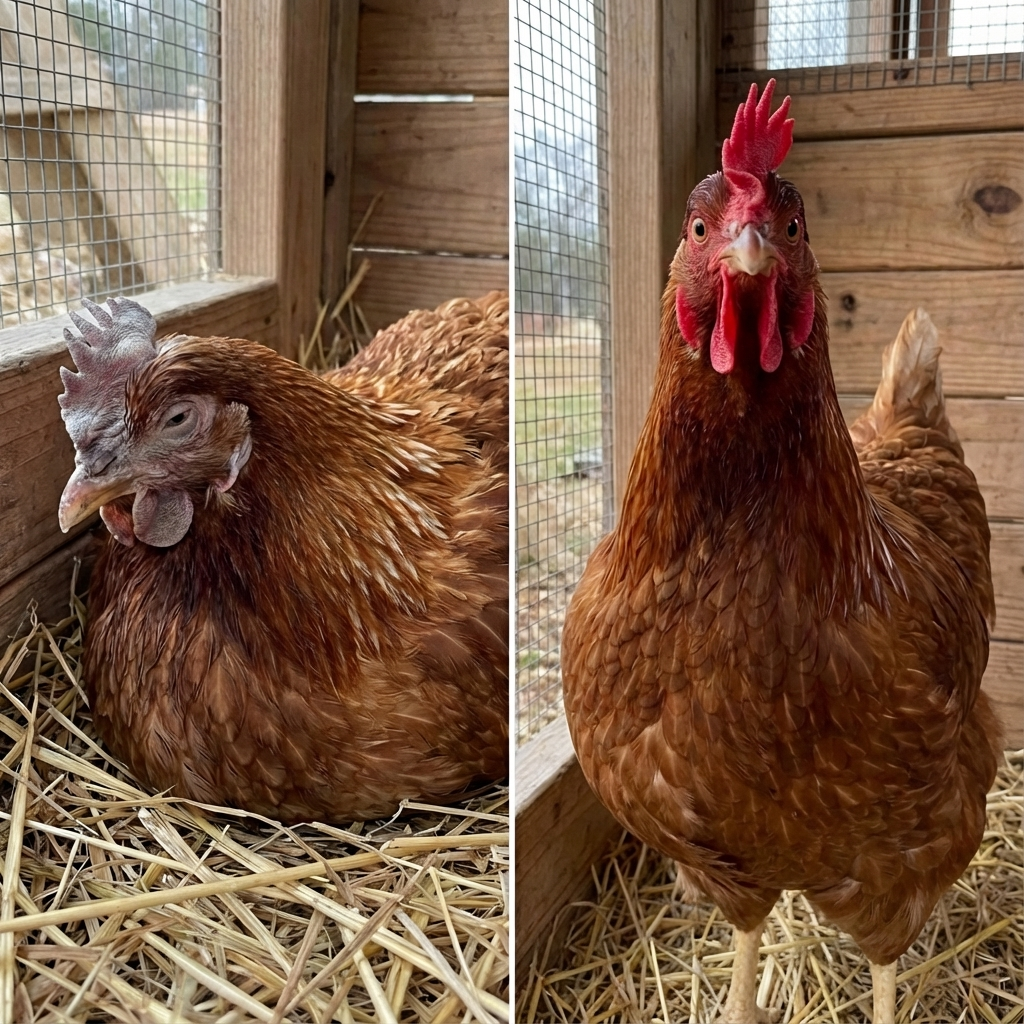
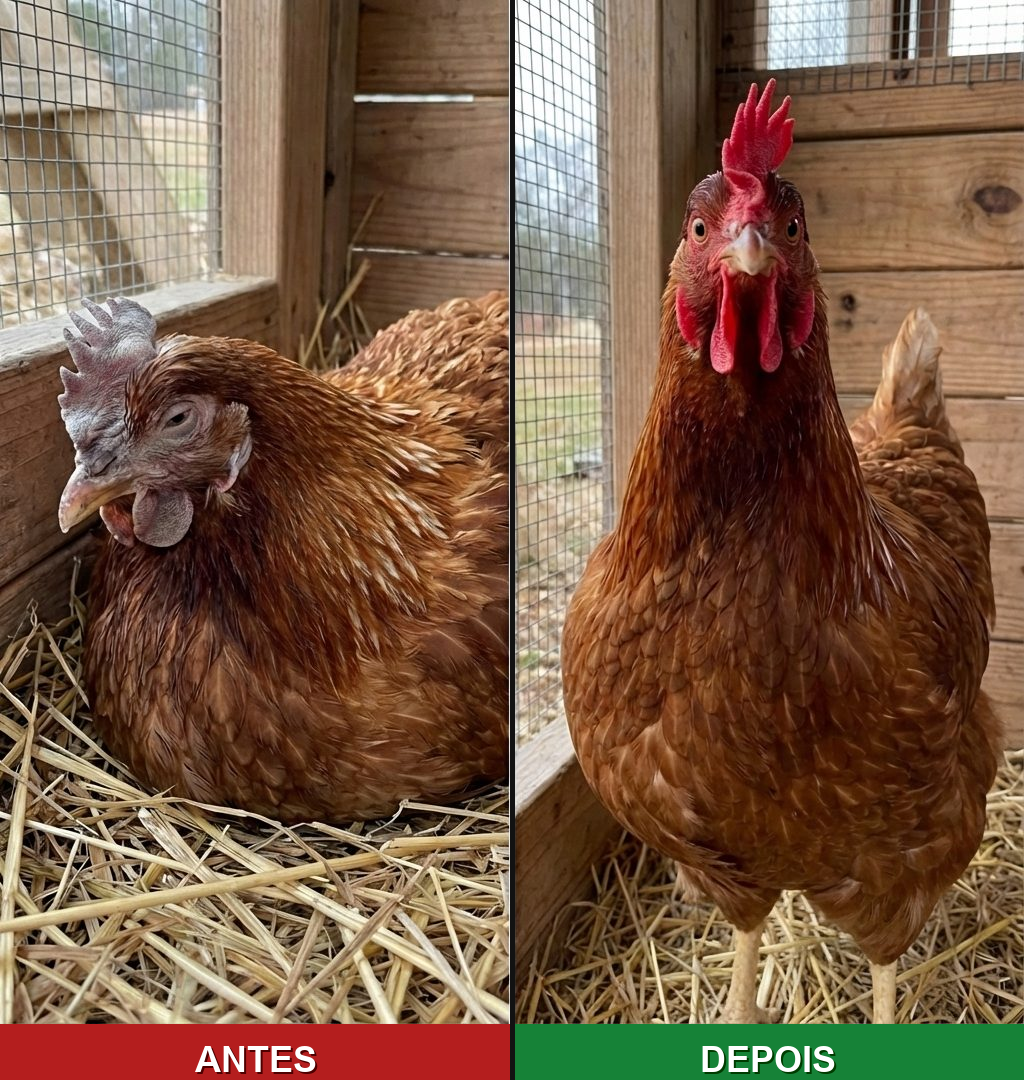
132654

diff --git a/index.html b/index.html
@@ -753,13 +753,45 @@
                     }
                     .authority-gallery-item img {
                         width: 100%;
-                        aspect-ratio: 4 / 3; /* Formato 4:3 proporciona um excelente equilíbrio entre largura e altura */
-                        object-fit: cover; /* Faz o "zoom" preenchendo o container e removendo barras pretas */
-                        object-position: center; /* Centraliza a foto no crop */
-                        transform: scale(1.03); /* Leve zoom extra na própria foto */
+                        aspect-ratio: 3 / 2; /* Um pouco mais largo que 4:3, afastando a foto para não cortar dos lados */
+                        object-fit: cover; 
+                        object-position: center; 
                         background: #020617;
                         display: block;
-                        border-bottom: 1px solid #22c55e;
+                    }
+                    .image-wrapper {
+                        position: relative;
+                        width: 100%;
+                        overflow: hidden;
+                        border-bottom: 2px solid #22c55e;
+                    }
+                    .antes-depois-bar {
+                        position: absolute;
+                        bottom: 0;
+                        left: 0;
+                        width: 100%;
+                        display: flex;
+                        justify-content: space-between;
+                        pointer-events: none;
+                    }
+                    .badge-antes, .badge-depois {
+                        width: 50%;
+                        text-align: center;
+                        font-family: inherit;
+                        font-size: 0.75rem;
+                        font-weight: 900;
+                        color: #ffffff;
+                        padding: 4px 0;
+                        text-shadow: 0 1px 3px rgba(0,0,0,1);
+                        letter-spacing: 0.5px;
+                        z-index: 10;
+                    }
+                    .badge-antes {
+                        background: rgba(180, 30, 30, 0.95);
+                    }
+                    .badge-depois {
+                        background: rgba(22, 130, 55, 0.95);
+                        border-left: 2px solid #111;
                     }
                     .authority-gallery-label {
                         padding: 6px 4px;
@@ -825,25 +857,49 @@
                     <div class="authority-gallery-track">
                         <!-- Card 1 -->
                         <div class="authority-gallery-item">
-                            <img src="autoridade/coriza.jpg" alt="Coriza Infecciosa" loading="lazy">
+                            <div class="image-wrapper">
+                                <img src="autoridade/coriza.png" alt="Coriza Infecciosa" loading="lazy">
+                                <div class="antes-depois-bar">
+                                    <span class="badge-antes">ANTES</span>
+                                    <span class="badge-depois">DEPOIS</span>
+                                </div>
+                            </div>
                             <div class="authority-gallery-label"><i class="fa-solid fa-shield-virus"></i> Coriza Infecciosa</div>
                         </div>
                         
                         <!-- Card 2 -->
                         <div class="authority-gallery-item">
-                            <img src="autoridade/coccidiose.jpg" alt="Coccidiose" loading="lazy">
+                            <div class="image-wrapper">
+                                <img src="autoridade/coccidiose.jpg" alt="Coccidiose" loading="lazy">
+                                <div class="antes-depois-bar">
+                                    <span class="badge-antes">ANTES</span>
+                                    <span class="badge-depois">DEPOIS</span>
+                                </div>
+                            </div>
                             <div class="authority-gallery-label"><i class="fa-solid fa-shield-virus"></i> Coccidiose / Peito Seco</div>
                         </div>
                         
                         <!-- Card 3 -->
                         <div class="authority-gallery-item">
-                            <img src="autoridade/bouba.jpg" alt="Bouba Aviária" loading="lazy">
+                            <div class="image-wrapper">
+                                <img src="autoridade/bouba.png" alt="Bouba Aviária" loading="lazy">
+                                <div class="antes-depois-bar">
+                                    <span class="badge-antes">ANTES</span>
+                                    <span class="badge-depois">DEPOIS</span>
+                                </div>
+                            </div>
                             <div class="authority-gallery-label"><i class="fa-solid fa-shield-virus"></i> Bouba Aviária / Gogo</div>
                         </div>
                         
                         <!-- Card 4 -->
                         <div class="authority-gallery-item">
-                            <img src="autoridade/vermes.jpg" alt="Vermes" loading="lazy">
+                            <div class="image-wrapper">
+                                <img src="autoridade/vermes.jpg" alt="Vermes" loading="lazy">
+                                <div class="antes-depois-bar">
+                                    <span class="badge-antes">ANTES</span>
+                                    <span class="badge-depois">DEPOIS</span>
+                                </div>
+                            </div>
                             <div class="authority-gallery-label"><i class="fa-solid fa-shield-virus"></i> Verminose</div>
                         </div>
                     </div>
@@ -1242,9 +1298,9 @@
                         padding: 6px 9px !important;
                         font-size: 0.82rem !important;
                         height: auto !important;
-                        background: #fff !important;
+                        background: #fdfbf7 !important; /* Creme super claro terra para campos */
                         color: #111827 !important;
-                        border: 1px solid #d1d5db !important;
+                        border: 1px solid #d5c8ad !important; /* Borda cor da terra um pouco mais escura */
                         border-radius: 6px !important;
                     }
                     
@@ -1253,13 +1309,13 @@
                     }
                     
                     .radio-item {
-                        background: #fff !important;
-                        border: 1px solid #d1d5db !important;
+                        background: #fdfbf7 !important; 
+                        border: 1px solid #d5c8ad !important;
                         color: #1f2937 !important;
                     }
                     
                     .radio-item.selected {
-                        background: #f8fafc !important;
+                        background: #ebdcc2 !important; /* Fundo selecionado no mesmo tema */
                         border-color: #0f172a !important;
                         box-shadow: 0 0 0 1px #0f172a inset !important;
                     }
@@ -1561,7 +1617,7 @@
                     .checkout-trust-badge { flex: 1; border-radius: 8px; padding: 7px 4px; text-align: center; }
 
                     /* Mini Testimonial */
-                    .checkout-mini-review { display: flex; align-items: center; gap: 10px; background: #f8fafc; border: 1px solid #e2e8f0; border-radius: 8px; padding: 8px 12px; margin-bottom: 12px; }
+                    .checkout-mini-review { display: flex; align-items: center; gap: 10px; background: #e0d2b7; border: 1px solid #c7b695; border-radius: 8px; padding: 8px 12px; margin-bottom: 12px; }
                     .checkout-mini-avatars { display: flex; flex-shrink: 0; }
                     .checkout-mini-avatars img { width: 24px; height: 24px; border-radius: 50%; border: 2px solid #fff; object-fit: cover; margin-right: -7px; box-shadow: 0 1px 3px rgba(0,0,0,0.12); }
 

diff --git a/mobile_modal_fix.css b/mobile_modal_fix.css
@@ -34,7 +34,7 @@ body.modal-open {
     position: relative !important;
     margin: auto !important; /* Center vertically when there's space */
     border-radius: 20px !important;
-    background: #ffffff !important;
+    background: #e6dac3 !important; /* Fundo terra agradável, não escuro */
     color: var(--slate-900) !important;
     box-shadow: 0 0 40px rgba(0,0,0,0.6) !important;
     border: none !important;

diff --git a/add_labels.py b/add_labels.py
@@ -1,0 +1,82 @@
+import os
+from PIL import Image, ImageDraw, ImageFont
+
+BASE = r"C:\Users\JOAO PAULO\Documents\GitHub\teste\autoridade"
+
+TARGETS = ["coriza.jpg", "bouba.jpg"]
+
+LABEL_HEIGHT = 56
+
+def get_font(size):
+    font_paths = [
+        "C:/Windows/Fonts/arialbd.ttf",
+        "C:/Windows/Fonts/calibrib.ttf",
+        "C:/Windows/Fonts/impact.ttf",
+        "C:/Windows/Fonts/arial.ttf",
+    ]
+    for fp in font_paths:
+        if os.path.exists(fp):
+            return ImageFont.truetype(fp, size)
+    return ImageFont.load_default()
+
+def stamp_labels(filename):
+    in_path = os.path.join(BASE, filename)
+    if not os.path.exists(in_path):
+        print(f"File not found: {in_path}")
+        return
+
+    img = Image.open(in_path).convert("RGB")
+    
+    # Criar um novo canvas apenas adicionando a altura do rótulo embaixo
+    new_h = img.height + LABEL_HEIGHT
+    new_img = Image.new("RGB", (img.width, new_h), (10, 10, 10))
+    
+    # Colar a imagem original inteira no topo (SEM MEXER na foto original)
+    new_img.paste(img, (0, 0))
+    
+    draw = ImageDraw.Draw(new_img)
+    font_big = get_font(36)
+    
+    half_w = img.width // 2
+    label_y = img.height
+
+    # Barra vermelha ANTES (Metade Esquerda)
+    draw.rectangle([0, label_y, half_w, new_h], fill=(180, 30, 30))
+    
+    # Barra verde DEPOIS (Metade Direita)
+    draw.rectangle([half_w, label_y, img.width, new_h], fill=(22, 130, 55))
+    
+    # Linha divisória preta sutil bem no meio
+    draw.rectangle([half_w - 2, 0, half_w + 2, new_h], fill=(18, 18, 18))
+    
+    # Textos com sombra para clareza
+    def draw_text_centered(text, box_x, box_y, box_w, box_h, shadow_color, text_color):
+        bbox = draw.textbbox((0, 0), text, font=font_big)
+        tw = bbox[2] - bbox[0]
+        th = bbox[3] - bbox[1]
+        x = box_x + (box_w - tw) // 2
+        y = box_y + (box_h - th) // 2
+        
+        # Shadow
+        draw.text((x + 2, y + 2), text, fill=shadow_color, font=font_big)
+        # Main Text
+        draw.text((x, y), text, fill=text_color, font=font_big)
+
+    # ANTES
+    draw_text_centered("ANTES", 0, label_y, half_w, LABEL_HEIGHT, (80, 0, 0), (255, 255, 255))
+    
+    # DEPOIS
+    draw_text_centered("DEPOIS", half_w, label_y, half_w, LABEL_HEIGHT, (0, 60, 0), (255, 255, 255))
+    
+    # Salvar nos dois formatos
+    base_name = os.path.splitext(filename)[0]
+    out_png = os.path.join(BASE, f"{base_name}.png")
+    out_jpg = os.path.join(BASE, f"{base_name}.jpg") # Subscreve o jpg com o texto
+    
+    new_img.save(out_png, "PNG", optimize=True)
+    new_img.save(out_jpg, "JPEG", quality=90, optimize=True)
+    print(f"[SUCESSO] Labels adicionados perfeitamente em {base_name}")
+
+if __name__ == "__main__":
+    for t in TARGETS:
+        stamp_labels(t)
